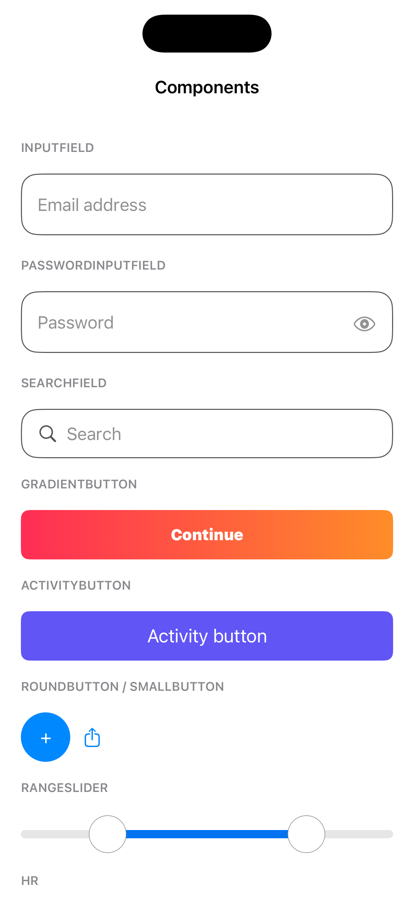
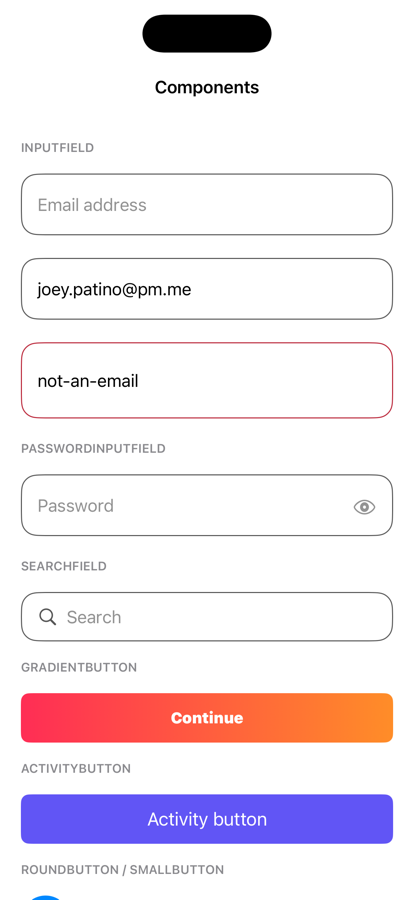
Show filled and invalid InputField states in the gallery
An earlier note claimed a filled or invalid state could not be staged from
outside the field. That was wrong. InputField exposes both a public textField
and a public setText, and setText populates the field; assigning to text does
not, because text is a @Published output written as the user types.

invalidate() marks the field invalid and repaints the border red, and works from
outside. The hint underneath does not. It is gated on two private flags:
didEdit, set on blur only when the field has content, and editActions containing
.edit, which is inserted by textFieldDidChange, the real-keystroke path. setText
does not go through it, so a programmatic focus and blur cycle produces the
border but never the message. Typing by hand does.

The gallery now shows all three states and the screenshot is updated.

Changed region(s): [[0.029, 0.28, 0.9565, 1.0]]

diff --git a/Playground/Playground/Modules/ComponentGalleryViewController.swift b/Playground/Playground/Modules/ComponentGalleryViewController.swift
@@ -6,6 +6,19 @@ import Core
 final class ComponentGalleryViewController: UIViewController {
     private let scrollView = UIScrollView()
     private let stack = UIStackView()
+    private let filled = InputField()
+    private let invalid = InputField()
+
+    override func viewDidAppear(_ animated: Bool) {
+        super.viewDidAppear(animated)
+        // Focus then blur, then mark invalid. This gives the invalid border. The hint text
+        // needs actual typing, see the note in viewDidLoad.
+        _ = invalid.becomeFirstResponder()
+        DispatchQueue.main.asyncAfter(deadline: .now() + 0.3) {
+            _ = self.invalid.resignFirstResponder()
+            self.invalid.invalidate()
+        }
+    }
 
     override func viewDidLoad() {
         super.viewDidLoad()
@@ -31,11 +44,24 @@ final class ComponentGalleryViewController: UIViewController {
         ])
 
         section("InputField")
-        // text and error are @Published outputs, set from the field as the user types,
-        // so a filled or invalid state cannot be staged from here. Shown empty.
         let plain = InputField()
         plain.placeholder = "Email address"
         add(plain, height: 64)
+
+        // setText is the way in. InputField.text is a @Published output written as the user
+        // types, so assigning to it does not populate the field.
+        filled.placeholder = "Email address"
+        filled.setText("joey.patino@pm.me")
+        add(filled, height: 64)
+
+        // invalidate() repaints the border red, and that much can be staged from outside.
+        // The hint underneath cannot: it is gated on editActions containing .edit, which is
+        // only inserted by textFieldDidChange, the real-keystroke path. setText does not go
+        // through it. Type into this field by hand and the hint appears on blur.
+        invalid.placeholder = "Email address"
+        invalid.validators = [EmailValidator(validationHint: "Enter a valid email address")]
+        invalid.setText("not-an-email")
+        add(invalid, height: 78)
 
         section("PasswordInputField")
         let secure = PasswordInputField()
